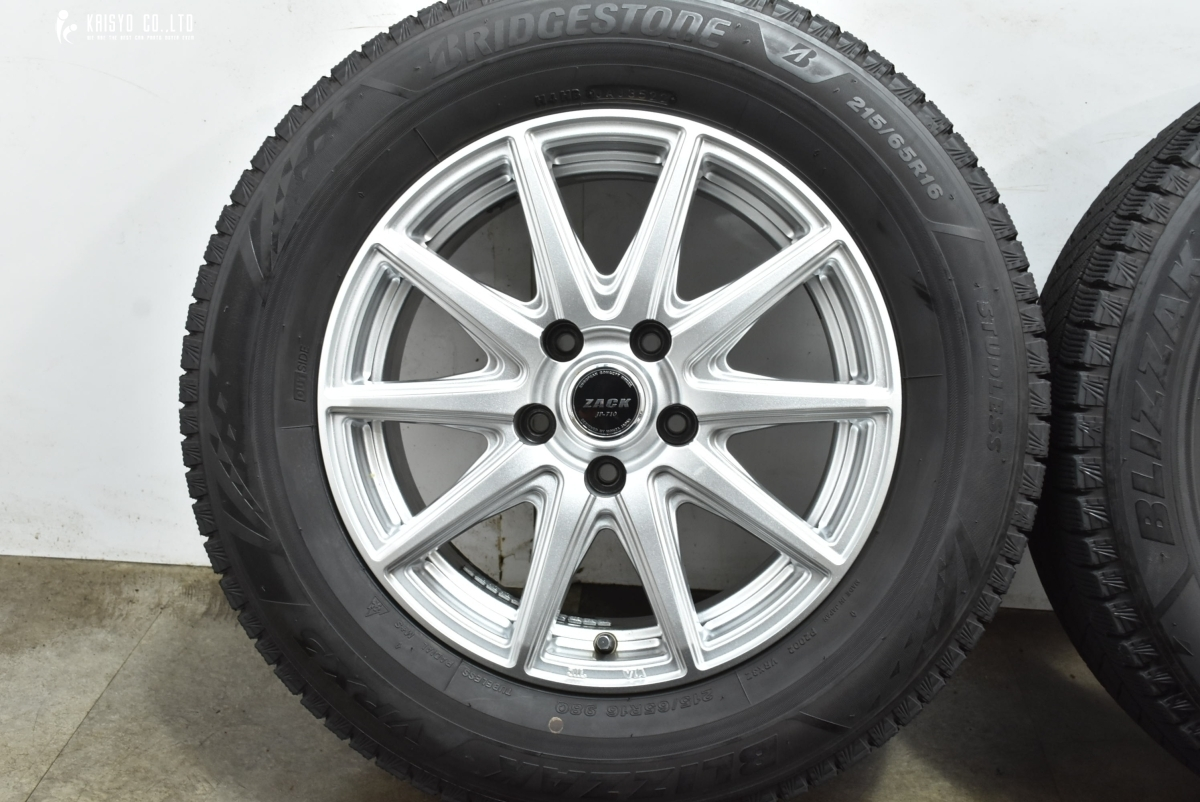
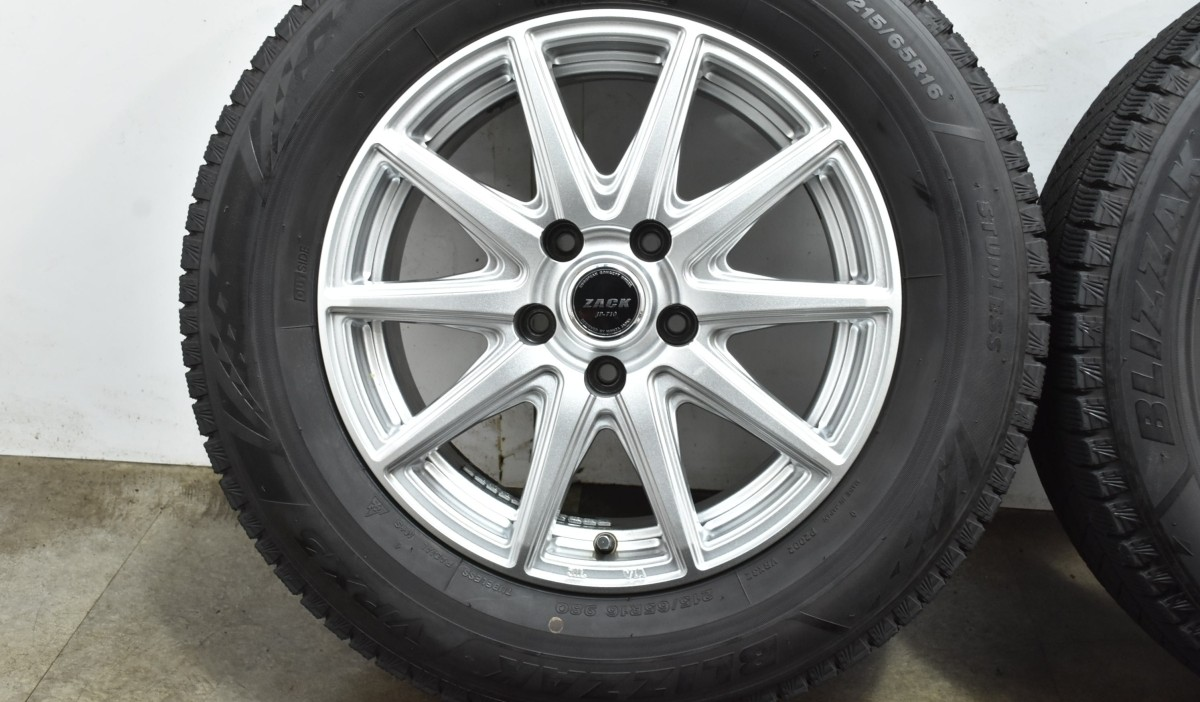
タイヤLP: ロゴ入り写真をすべて差替え・トリミング、キャッシュバスター更新

diff --git a/lp_tire.html b/lp_tire.html
@@ -413,7 +413,7 @@
     <div class="fv-sub">ご自宅まで出張査定・その場でお支払い※</div>
 
     <div class="fv-photo">
-      <img src="img/tire_ho1.jpg?v=2" alt="ホイール＋タイヤセット">
+      <img src="img/tire_ho1.jpg?v=3" alt="ホイール＋タイヤセット">
       <img src="img/tire_ho2.jpg?v=1" alt="ホイール＋タイヤ 4本セット">
     </div>
 
@@ -454,19 +454,19 @@
     <div class="section-title">買取<span class="green">対象商品</span><span class="underline"></span></div>
     <div class="target-grid">
       <div class="target-card">
-        <img src="img/tire_ho1.jpg?v=2" alt="タイヤ＋ホイールセット">
+        <img src="img/tire_ho1.jpg?v=3" alt="タイヤ＋ホイールセット">
         <div class="card-name">タイヤ＋ホイールセット</div>
       </div>
       <div class="target-card">
-        <img src="img/wheel_rim_bs.jpg?v=2" alt="アルミホイール">
+        <img src="img/tire_tu1.jpg?v=1" alt="アルミホイール">
         <div class="card-name">アルミホイール（4本）</div>
       </div>
       <div class="target-card">
-        <img src="img/tire_studless_bs.jpg?v=2" alt="スタッドレスタイヤ">
+        <img src="img/tire_studless_bs.jpg?v=3" alt="スタッドレスタイヤ">
         <div class="card-name">スタッドレスタイヤ</div>
       </div>
       <div class="target-card">
-        <img src="img/tire_ta1.jpg?v=2" alt="サマータイヤ">
+        <img src="img/tire_ta1.jpg?v=3" alt="サマータイヤ">
         <div class="card-name">サマータイヤ</div>
       </div>
     </div>
